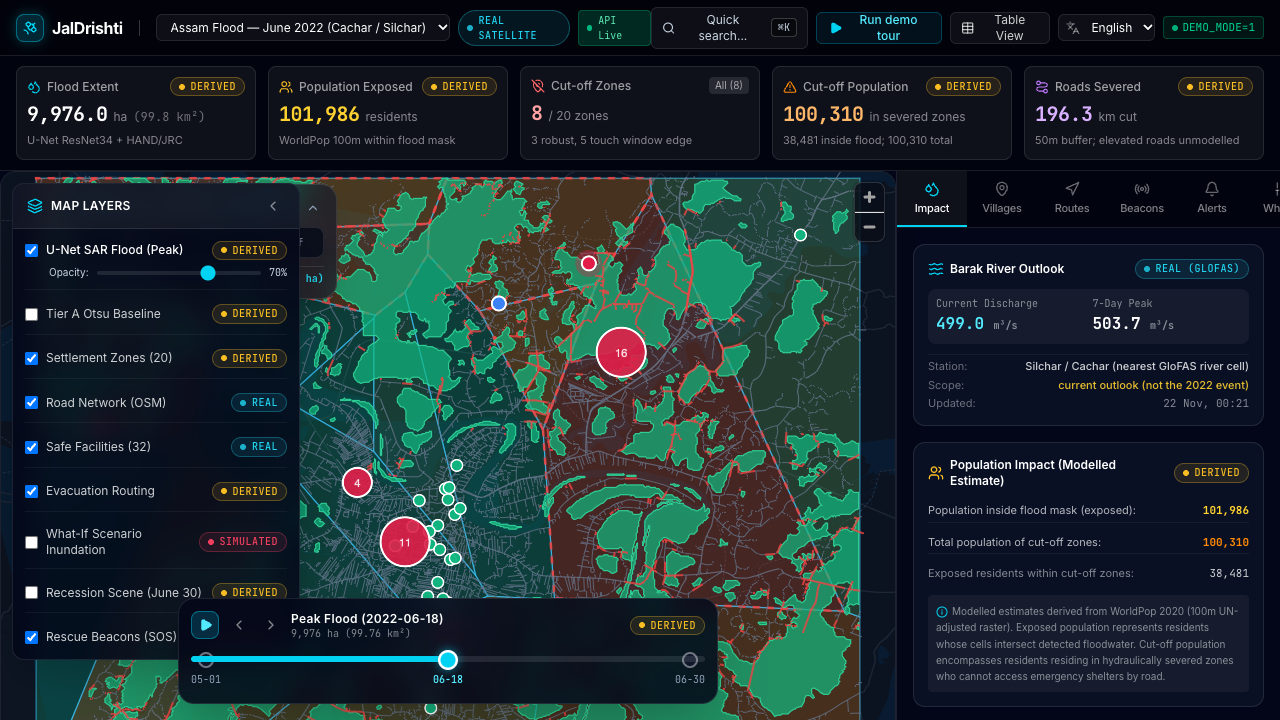
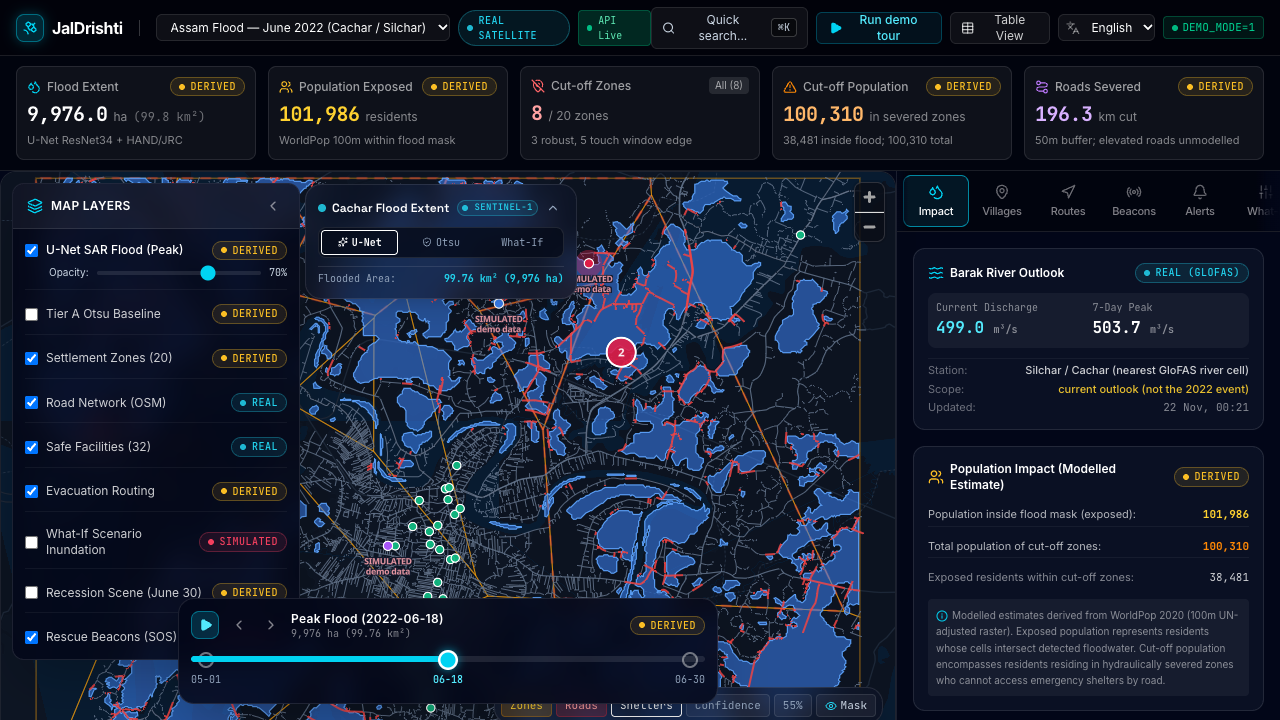
fix(cc-layout): collapse layer panel < 1280px, scrollable drawer tabs with fade edges, and 1200x800/1024x768 screenshots

diff --git a/apps/web/components/command-center/TabDrawer.tsx b/apps/web/components/command-center/TabDrawer.tsx
@@ -72,27 +72,36 @@ export function TabDrawer({
       aria-label="Intelligence drawer tabs"
       className="w-full lg:w-96 border-l border-white/10 bg-slate-950/85 backdrop-blur-md flex flex-col h-full z-20 shrink-0"
     >
-      {/* Tab Navigation Header */}
-      <div className="flex border-b border-white/10 bg-black/40 overflow-x-auto scrollbar-none shrink-0">
-        {tabs.map((t) => {
-          const Icon = t.icon;
-          const isActive = activeTab === t.id;
-          return (
-            <button
-              key={t.id}
-              id={`${t.id}-tab`}
-              onClick={() => onSelectTab(t.id)}
-              className={`flex-1 min-w-[70px] py-2.5 px-2 flex flex-col items-center gap-1 border-b-2 text-xs font-medium transition-all ${
-                isActive
-                  ? "border-cyan-400 text-white bg-white/5"
-                  : "border-transparent text-white/50 hover:text-white/80 hover:bg-white/5"
-              }`}
-            >
-              <Icon className={`h-4 w-4 ${isActive ? "text-cyan-400" : "text-white/40"}`} />
-              <span className="text-[11px] truncate tracking-tight">{t.label}</span>
-            </button>
-          );
-        })}
+      {/* Tab Navigation Header with Fade Edges */}
+      <div className="relative border-b border-white/10 bg-black/40 shrink-0">
+        {/* Left fade edge */}
+        <div className="pointer-events-none absolute left-0 top-0 bottom-0 w-3 bg-gradient-to-r from-slate-950 via-slate-950/60 to-transparent z-10" />
+
+        {/* Scrollable tabs container */}
+        <div className="flex overflow-x-auto scrollbar-none px-1.5 py-1 scroll-smooth">
+          {tabs.map((t) => {
+            const Icon = t.icon;
+            const isActive = activeTab === t.id;
+            return (
+              <button
+                key={t.id}
+                id={`${t.id}-tab`}
+                onClick={() => onSelectTab(t.id)}
+                className={`min-w-[66px] shrink-0 py-2 px-2 flex flex-col items-center gap-1 rounded-lg border text-xs font-medium transition-all cursor-pointer ${
+                  isActive
+                    ? "border-cyan-400/60 text-white bg-cyan-950/40 shadow-sm"
+                    : "border-transparent text-white/50 hover:text-white hover:bg-white/5"
+                }`}
+              >
+                <Icon className={`h-4 w-4 ${isActive ? "text-cyan-400" : "text-white/40"}`} />
+                <span className="text-[11px] whitespace-nowrap tracking-tight">{t.label}</span>
+              </button>
+            );
+          })}
+        </div>
+
+        {/* Right fade edge */}
+        <div className="pointer-events-none absolute right-0 top-0 bottom-0 w-6 bg-gradient-to-l from-slate-950 via-slate-950/80 to-transparent z-10" />
       </div>
 
       {/* Tab Content Panes */}

diff --git a/apps/web/components/map/FloodMap.tsx b/apps/web/components/map/FloodMap.tsx
@@ -28,6 +28,7 @@ interface FloodMapProps {
   robustCutoffsOnly?: boolean;
   timelineGeojsonUrl?: string | null;
   showBeacons?: boolean;
+  isLayerPanelCollapsed?: boolean;
 }
 
 const EMPTY_GEOJSON: GeoJSON.FeatureCollection = {
@@ -165,6 +166,7 @@ export default function FloodMap({
   robustCutoffsOnly = false,
   timelineGeojsonUrl,
   showBeacons = true,
+  isLayerPanelCollapsed = true,
 }: FloodMapProps) {
   const mapContainerRef = useRef<HTMLDivElement>(null);
   const mapRef = useRef<maplibregl.Map | null>(null);
@@ -906,7 +908,11 @@ export default function FloodMap({
       )}
 
       {/* Floating Header Card (Top Left) */}
-      <div className="absolute top-3 left-14 sm:left-16 z-10 flex flex-col gap-2 max-w-[calc(100vw-80px)] sm:max-w-xs">
+      <div
+        className={`absolute top-3 transition-all duration-300 z-10 flex flex-col gap-2 max-w-[calc(100vw-80px)] sm:max-w-xs ${
+          isLayerPanelCollapsed ? "left-14 sm:left-16" : "left-[304px]"
+        }`}
+      >
         <GlassCard className="p-3 space-y-2 backdrop-blur-md border-white/10 shadow-xl">
           <div className="flex items-center justify-between gap-2">
             <div className="flex items-center gap-1.5 min-w-0">
@@ -1102,8 +1108,8 @@ export default function FloodMap({
         )}
       </div>
 
-      {/* Floating Quick Controls (Bottom Right - Hidden on mobile to prevent clutter) */}
-      <div className="absolute bottom-3 right-3 z-10 hidden md:flex items-center gap-1.5">
+      {/* Floating Quick Controls (Stacked above timeline at bottom-24 right-3) */}
+      <div className="absolute bottom-24 right-3 z-10 hidden md:flex items-center gap-1.5">
         <GlassCard className="p-1.5 flex items-center gap-1 backdrop-blur-md text-[11px] font-mono">
           <button
             onClick={() => setShowZones(!showZones)}

diff --git a/apps/web/components/command-center/LayerPanel.tsx b/apps/web/components/command-center/LayerPanel.tsx
@@ -12,15 +12,33 @@ import {
 interface LayerPanelProps {
   layers: LayerState;
   onChangeLayers: (updated: Partial<LayerState>) => void;
+  isCollapsed?: boolean;
+  onToggleCollapse?: (collapsed: boolean) => void;
 }
 
-export function LayerPanel({ layers, onChangeLayers }: LayerPanelProps) {
-  const [isCollapsed, setIsCollapsed] = useState(() => {
+export function LayerPanel({
+  layers,
+  onChangeLayers,
+  isCollapsed: controlledCollapsed,
+  onToggleCollapse,
+}: LayerPanelProps) {
+  const [internalCollapsed, setInternalCollapsed] = useState(() => {
     if (typeof window !== "undefined") {
-      return window.innerWidth < 1024;
+      return window.innerWidth < 1280;
     }
-    return false;
+    return true;
   });
+
+  const isCollapsed = controlledCollapsed !== undefined ? controlledCollapsed : internalCollapsed;
+
+  const handleToggle = () => {
+    const next = !isCollapsed;
+    if (onToggleCollapse) {
+      onToggleCollapse(next);
+    } else {
+      setInternalCollapsed(next);
+    }
+  };
 
   return (
     <aside
@@ -42,7 +60,7 @@ export function LayerPanel({ layers, onChangeLayers }: LayerPanelProps) {
             )}
           </div>
           <button
-            onClick={() => setIsCollapsed(!isCollapsed)}
+            onClick={handleToggle}
             className="p-1 rounded text-white/50 hover:text-white hover:bg-white/10 transition-colors"
             title={isCollapsed ? "Expand Layer Panel" : "Collapse Layer Panel"}
             aria-label={isCollapsed ? "Expand layer panel" : "Collapse layer panel"}

diff --git a/apps/web/app/command-center/page.tsx b/apps/web/app/command-center/page.tsx
@@ -60,6 +60,12 @@ function CommandCenterContent() {
   const [currentLang, setCurrentLang] = useState<string>("en");
   const [isTourOpen, setIsTourOpen] = useState<boolean>(false);
   const [isCommandPaletteOpen, setIsCommandPaletteOpen] = useState<boolean>(false);
+  const [isLayerPanelCollapsed, setIsLayerPanelCollapsed] = useState<boolean>(() => {
+    if (typeof window !== "undefined") {
+      return window.innerWidth < 1280;
+    }
+    return true;
+  });
 
   // Layer State
   const [layers, setLayers] = useState<LayerState>({
@@ -143,7 +149,12 @@ function CommandCenterContent() {
       ) : (
         <div className="flex-1 relative flex overflow-hidden">
           {/* Left Layer Panel */}
-          <LayerPanel layers={layers} onChangeLayers={handleChangeLayers} />
+          <LayerPanel
+            layers={layers}
+            onChangeLayers={handleChangeLayers}
+            isCollapsed={isLayerPanelCollapsed}
+            onToggleCollapse={setIsLayerPanelCollapsed}
+          />
 
           {/* Center Map Canvas */}
           <main className="flex-1 relative h-full w-full" aria-label="Interactive Flood Disaster Map">
@@ -160,6 +171,7 @@ function CommandCenterContent() {
               robustCutoffsOnly={robustCutoffsOnly}
               timelineGeojsonUrl={timelineGeojsonUrl}
               showBeacons={layers.showBeacons}
+              isLayerPanelCollapsed={isLayerPanelCollapsed}
             />
 
             {/* Floating Time Scrubber */}
